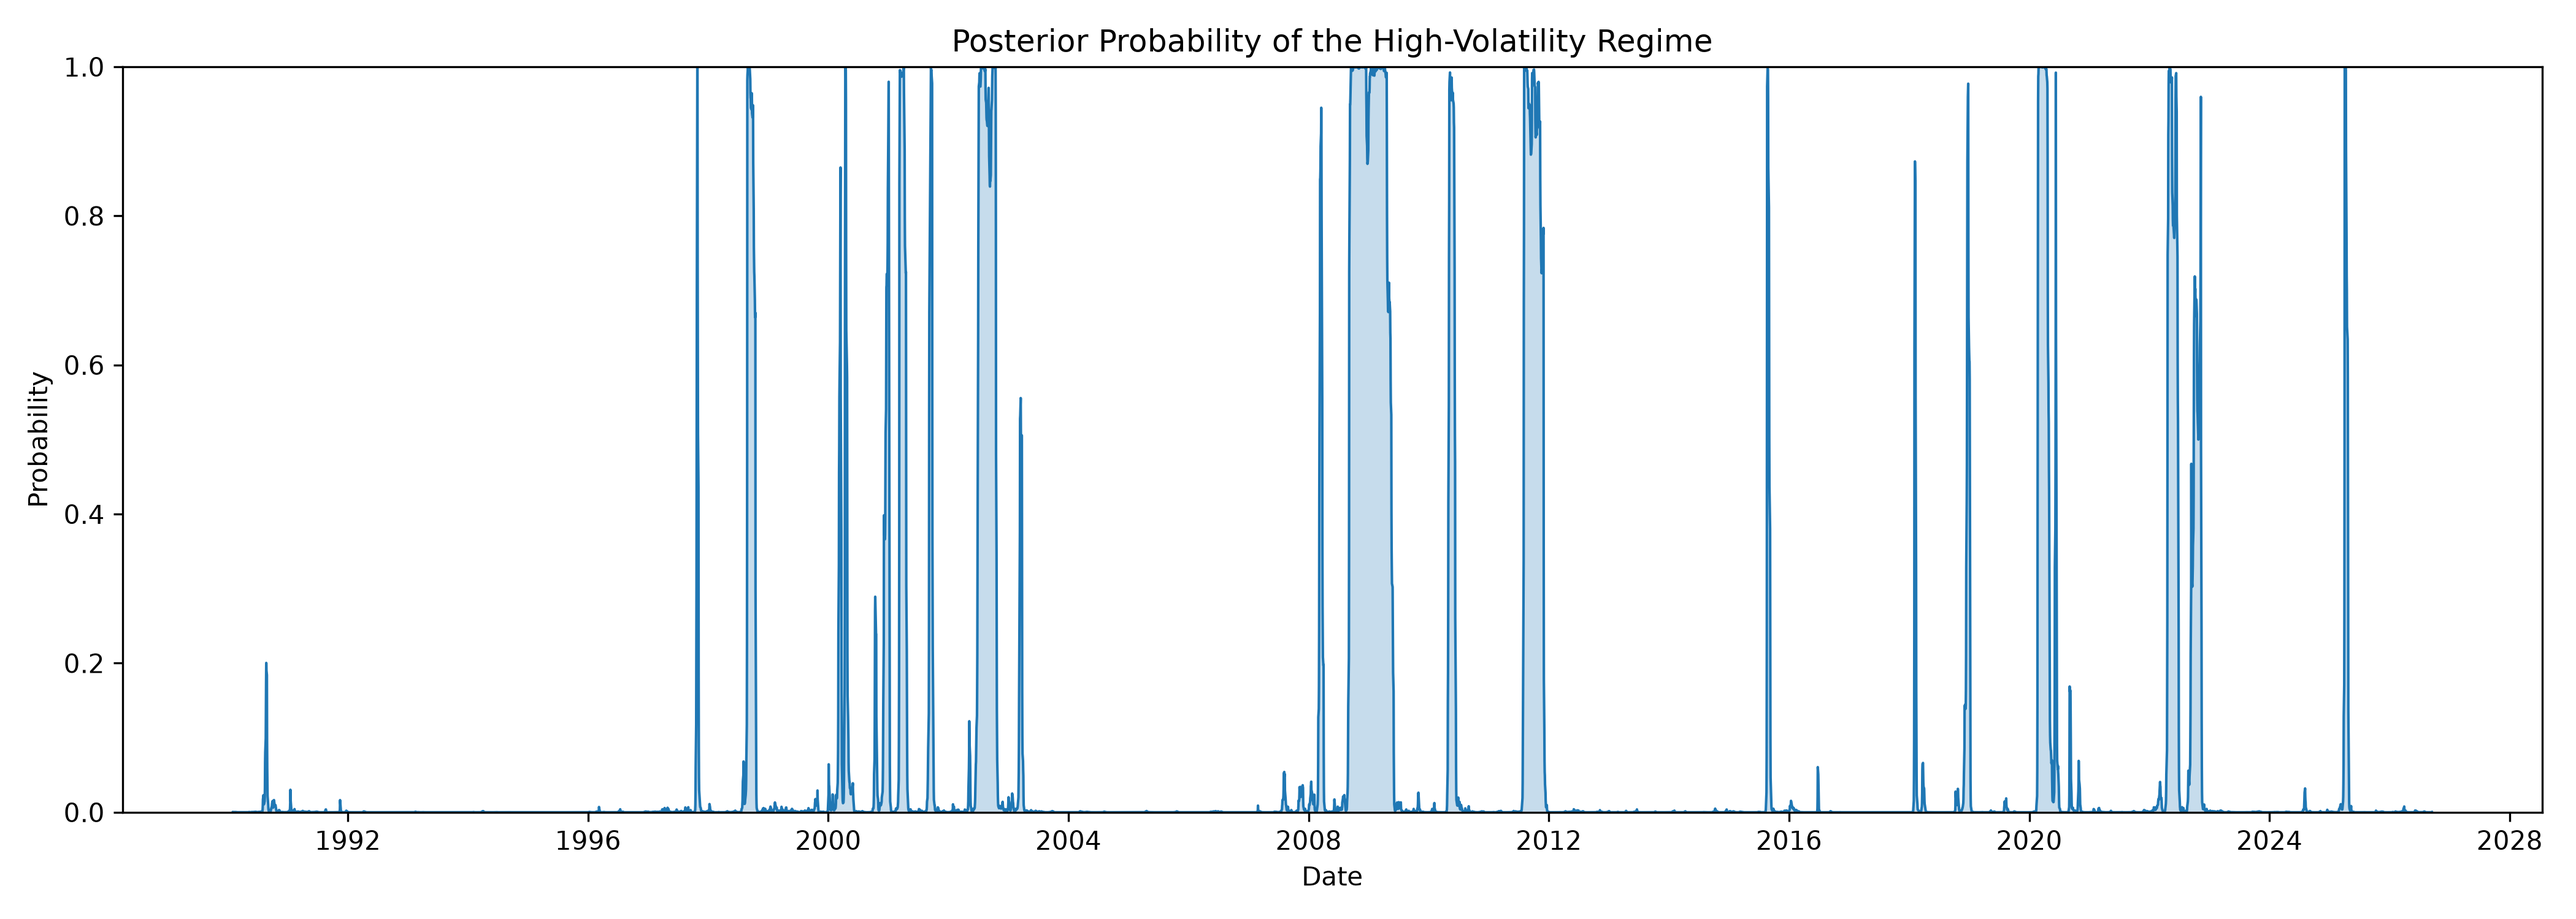
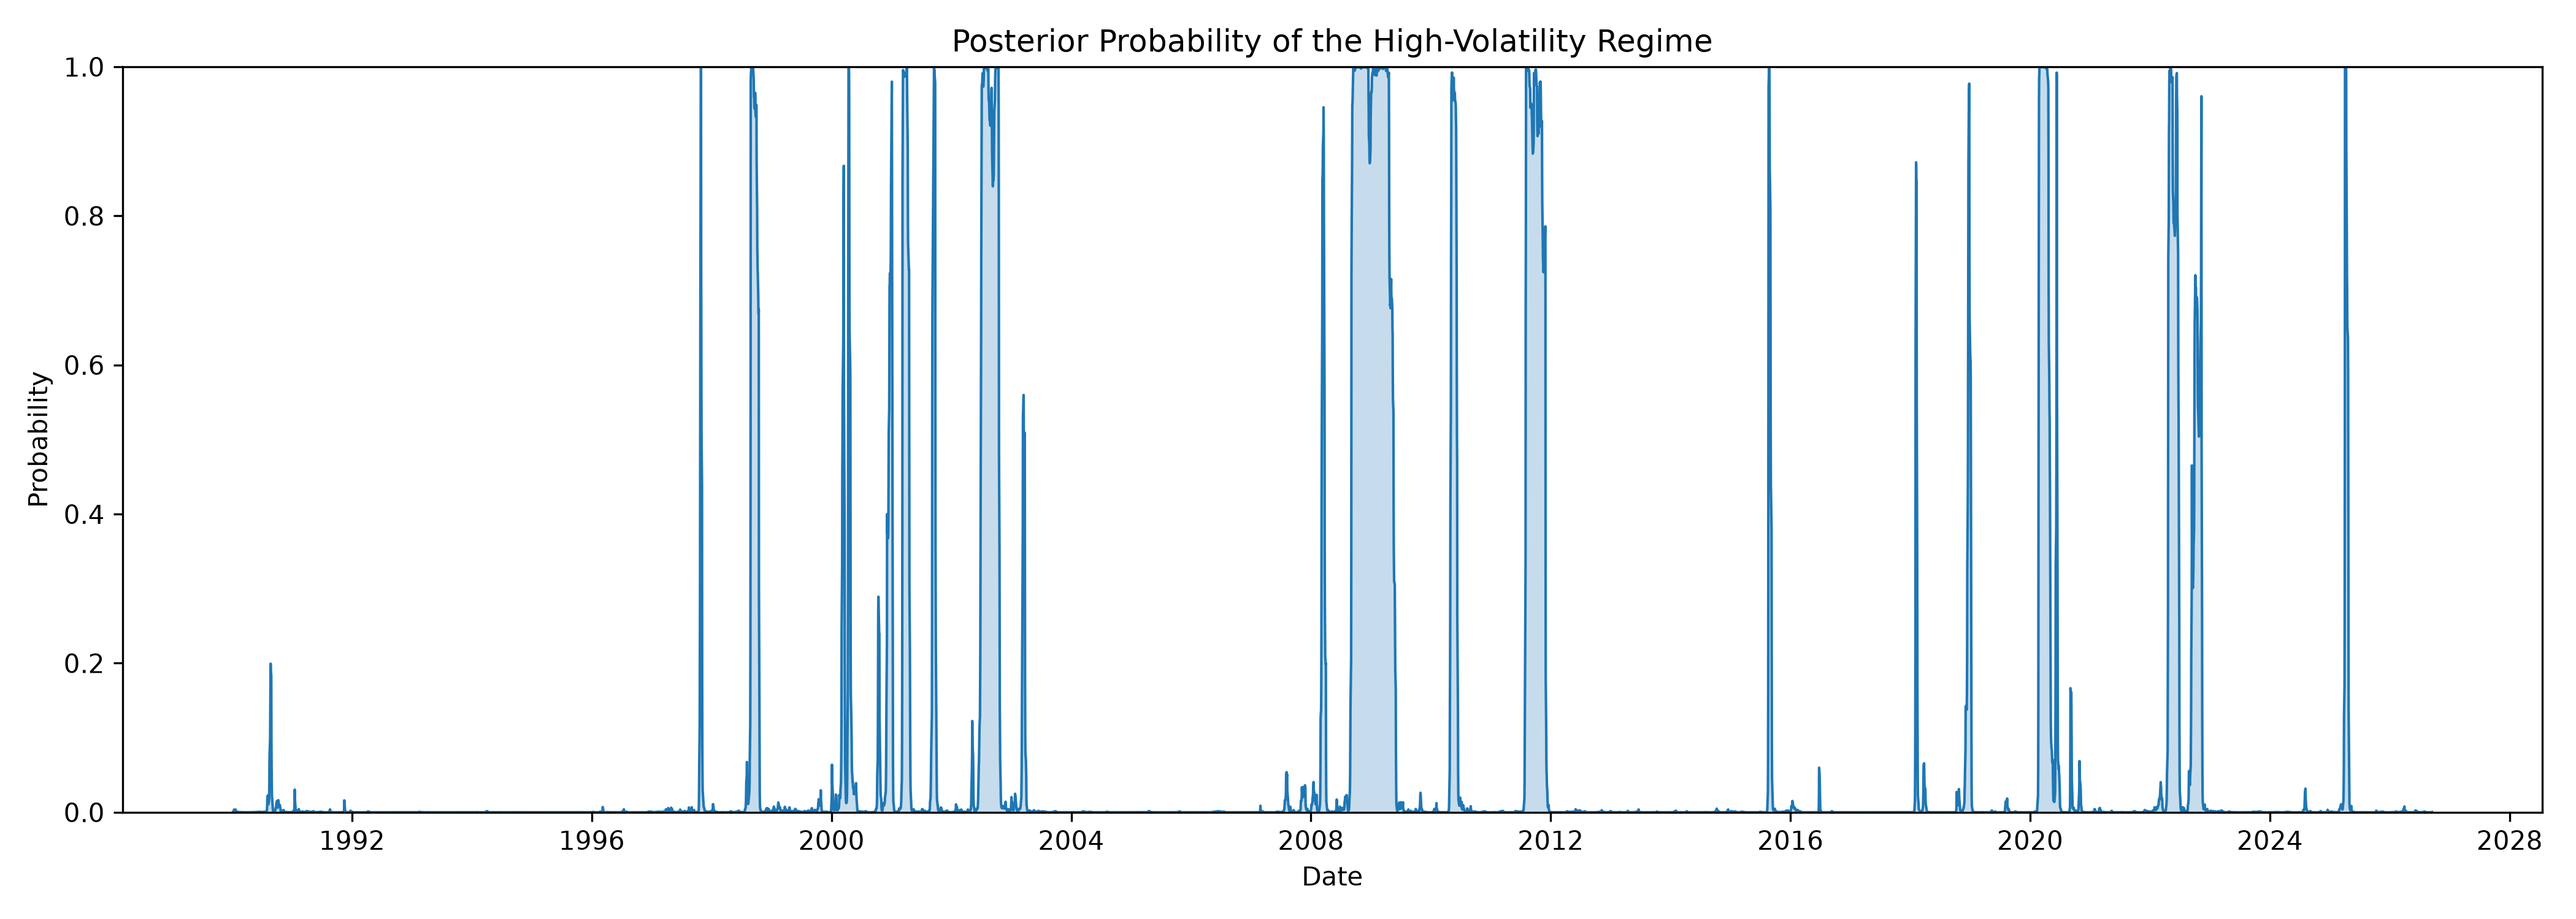
Update final HMM figures

diff --git a/src/05_figures.py b/src/05_figures.py
@@ -1,127 +1,177 @@
 from pathlib import Path
-
 import matplotlib.pyplot as plt
 import pandas as pd
-import numpy as np
 
-PROJECT_ROOT = Path(__file__).resolve().parent.parent
+root = Path(__file__).resolve().parents[1]
 
-INPUT_PATH = PROJECT_ROOT / "data" / "processed" / "sp500_regimes.csv"
-FIGURE_PATH = PROJECT_ROOT / "figures"
+data_file = root / "data" / "processed" / "sp500_hmm.csv"
+transition_file = root / "data" / "processed" / "transition_matrix.csv"
+figure_dir = root / "figures"
 
-FIGURE_PATH.mkdir(parents=True, exist_ok=True)
+figure_dir.mkdir(parents=True, exist_ok=True)
 
-df = pd.read_csv(INPUT_PATH, index_col=0, parse_dates=True)
-
-state_order = (
-    df.groupby("State")["Volatility20"]
-    .mean()
-    .sort_values()
-    .index
-    .tolist()
+df = pd.read_csv(
+    data_file,
+    index_col="Date",
+    parse_dates=["Date"]
 )
 
-labels = {
-    state_order[0]: "Low volatility",
-    state_order[1]: "Normal",
-    state_order[2]: "High volatility"
-}
-
-df["Regime"] = df["State"].map(labels)
+transition = pd.read_csv(
+    transition_file,
+    index_col=0
+)
 
 colors = {
-    state_order[0]: "green",
-    state_order[1]: "orange",
-    state_order[2]: "red"
+    "Low volatility": "green",
+    "Medium volatility": "orange",
+    "High volatility": "red"
 }
 
 fig, ax = plt.subplots(figsize=(14, 6))
 
-for state in sorted(df["State"].unique()):
-    mask = df["State"] == state
+ax.plot(
+    df.index,
+    df["Close"],
+    color="black",
+    linewidth=0.8
+)
 
-    ax.scatter(
-        df.index[mask],
-        df.loc[mask, "Close"],
-        s=4,
-        color=colors[state],
-        label=labels[state]
+blocks = (df["Regime"] != df["Regime"].shift()).cumsum()
+
+for _, block in df.groupby(blocks):
+    regime = block["Regime"].iloc[0]
+
+    ax.axvspan(
+        block.index[0],
+        block.index[-1],
+        color=colors[regime],
+        alpha=0.2
     )
 
+handles = [
+    plt.Line2D(
+        [0],
+        [0],
+        color=colors[regime],
+        linewidth=6,
+        alpha=0.4
+    )
+    for regime in colors
+]
+
+ax.legend(
+    handles,
+    list(colors.keys())
+)
+
 ax.set_yscale("log")
-ax.set_title("S&P 500 Market Regimes Identified by the HMM")
+ax.set_title("S&P 500 Hidden Market Regimes, 1990–2026")
 ax.set_xlabel("Date")
 ax.set_ylabel("S&P 500")
-ax.legend()
 
 plt.tight_layout()
-plt.savefig(FIGURE_PATH / "sp500_regimes.png", dpi=300)
-plt.show()
+plt.savefig(
+    figure_dir / "market_regimes.png",
+    dpi=300
+)
+plt.close()
 
 
 fig, ax = plt.subplots(figsize=(10, 6))
 
-for state in sorted(df["State"].unique()):
-    subset = df[df["State"] == state]
+for regime in colors:
+    returns = df.loc[
+        df["Regime"] == regime,
+        "LogReturn"
+    ]
 
-    ax.scatter(
-        subset["Volatility20"],
-        subset["LogReturn"],
-        s=8,
-        alpha=0.4,
-        color=colors[state],
-        label=labels[state]
+    ax.hist(
+        returns,
+        bins=80,
+        density=True,
+        alpha=0.45,
+        label=regime
     )
 
-ax.set_title("Returns and Volatility by Hidden Market Regime")
-ax.set_xlabel("20-Day Annualized Volatility")
-ax.set_ylabel("Daily Log Return")
+ax.set_title("Daily Return Distributions by Hidden Regime")
+ax.set_xlabel("Daily Log Return")
+ax.set_ylabel("Density")
 ax.legend()
 
 plt.tight_layout()
-plt.savefig(FIGURE_PATH / "regime_scatter.png", dpi=300)
-plt.show()
-
-
-states = df["State"].values
-n_states = len(np.unique(states))
-
-transition_counts = np.zeros((n_states, n_states))
-
-for current_state, next_state in zip(states[:-1], states[1:]):
-    transition_counts[current_state, next_state] += 1
-
-transition_matrix = (
-    transition_counts
-    / transition_counts.sum(axis=1, keepdims=True)
+plt.savefig(
+    figure_dir / "return_distributions.png",
+    dpi=300
 )
+plt.close()
+
 
 fig, ax = plt.subplots(figsize=(7, 6))
 
-image = ax.imshow(transition_matrix)
+image = ax.imshow(
+    transition.values,
+    vmin=0,
+    vmax=1
+)
 
-for i in range(n_states):
-    for j in range(n_states):
+for i in range(len(transition)):
+    for j in range(len(transition)):
         ax.text(
             j,
             i,
-            f"{transition_matrix[i, j]:.3f}",
+            f"{transition.iloc[i, j]:.3f}",
             ha="center",
             va="center"
         )
 
-ax.set_xticks(range(n_states))
-ax.set_yticks(range(n_states))
+ax.set_xticks(range(len(transition)))
+ax.set_yticks(range(len(transition)))
 
-ax.set_xticklabels([labels[i] for i in range(n_states)])
-ax.set_yticklabels([labels[i] for i in range(n_states)])
+ax.set_xticklabels(transition.columns)
+ax.set_yticklabels(transition.index)
 
-ax.set_xlabel("Next Regime")
-ax.set_ylabel("Current Regime")
-ax.set_title("Empirical Regime Transition Probabilities")
+ax.set_xlabel("Next regime")
+ax.set_ylabel("Current regime")
+ax.set_title("Fitted HMM Transition Probabilities")
 
 fig.colorbar(image)
 
 plt.tight_layout()
-plt.savefig(FIGURE_PATH / "transition_matrix.png", dpi=300)
-plt.show()
+plt.savefig(
+    figure_dir / "transition_matrix.png",
+    dpi=300
+)
+plt.close()
+
+
+fig, ax = plt.subplots(figsize=(14, 5))
+
+p = df["P_high_volatility"]
+
+ax.plot(
+    df.index,
+    p,
+    linewidth=1
+)
+
+ax.fill_between(
+    df.index,
+    p,
+    alpha=0.25
+)
+
+ax.set_title(
+    "Posterior Probability of the High-Volatility Regime"
+)
+ax.set_xlabel("Date")
+ax.set_ylabel("Probability")
+ax.set_ylim(0, 1)
+
+plt.tight_layout()
+plt.savefig(
+    figure_dir / "high_volatility_probability.png",
+    dpi=300
+)
+plt.close()
+
+print(f"Figures saved to {figure_dir}")

diff --git a/README.md b/README.md
@@ -46,20 +46,19 @@ $$
 
 ### Hidden market regimes
 
-![S&P 500 hidden market regimes](figures/return_hmm_regimes.png)
+![Hidden market regimes](figures/market_regimes.png)
 
 ### Return distributions by regime
 
 ![Return distributions](figures/return_distributions.png)
 
-### HMM transition probabilities
+### Transition probabilities
 
-![Transition matrix](figures/fitted_transition_matrix.png)
+![Transition matrix](figures/transition_matrix.png)
 
-### Probability of high-volatility regime
+### High-volatility regime probability
 
-![High volatility probability](figures/high_volatility_probability.png)
-
+![High-volatility probability](figures/high_volatility_probability.png)
 ## Project structure
 
 ```text
@@ -68,4 +67,8 @@ src/
 ├── 02_prepare_returns.py
 ├── 03_fit_hmm.py
 ├── 04_model_selection.py
+<<<<<<< HEAD
 └── 05_figures.py
+=======
+└── 05_figures.py
+>>>>>>> 93c79ba (Update final HMM figures)
